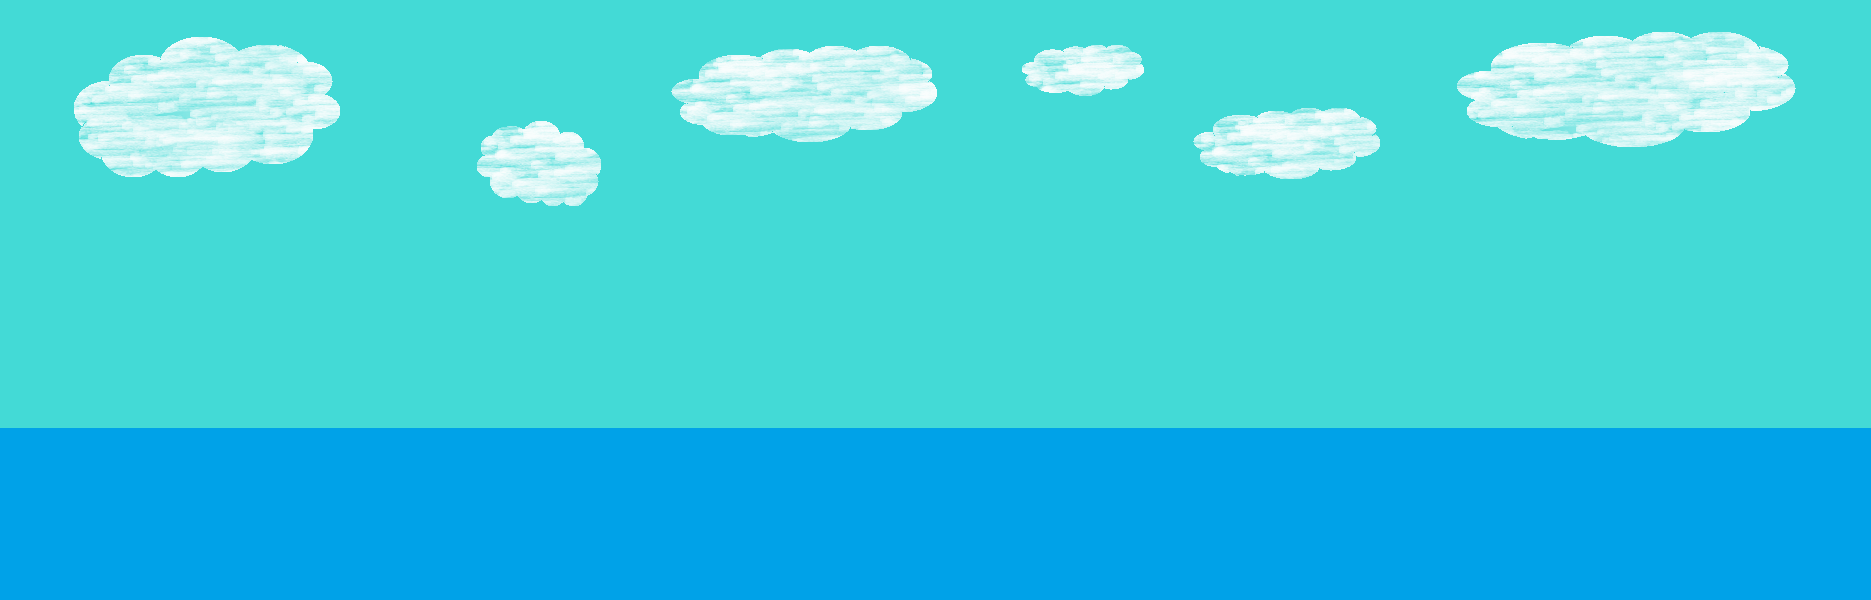
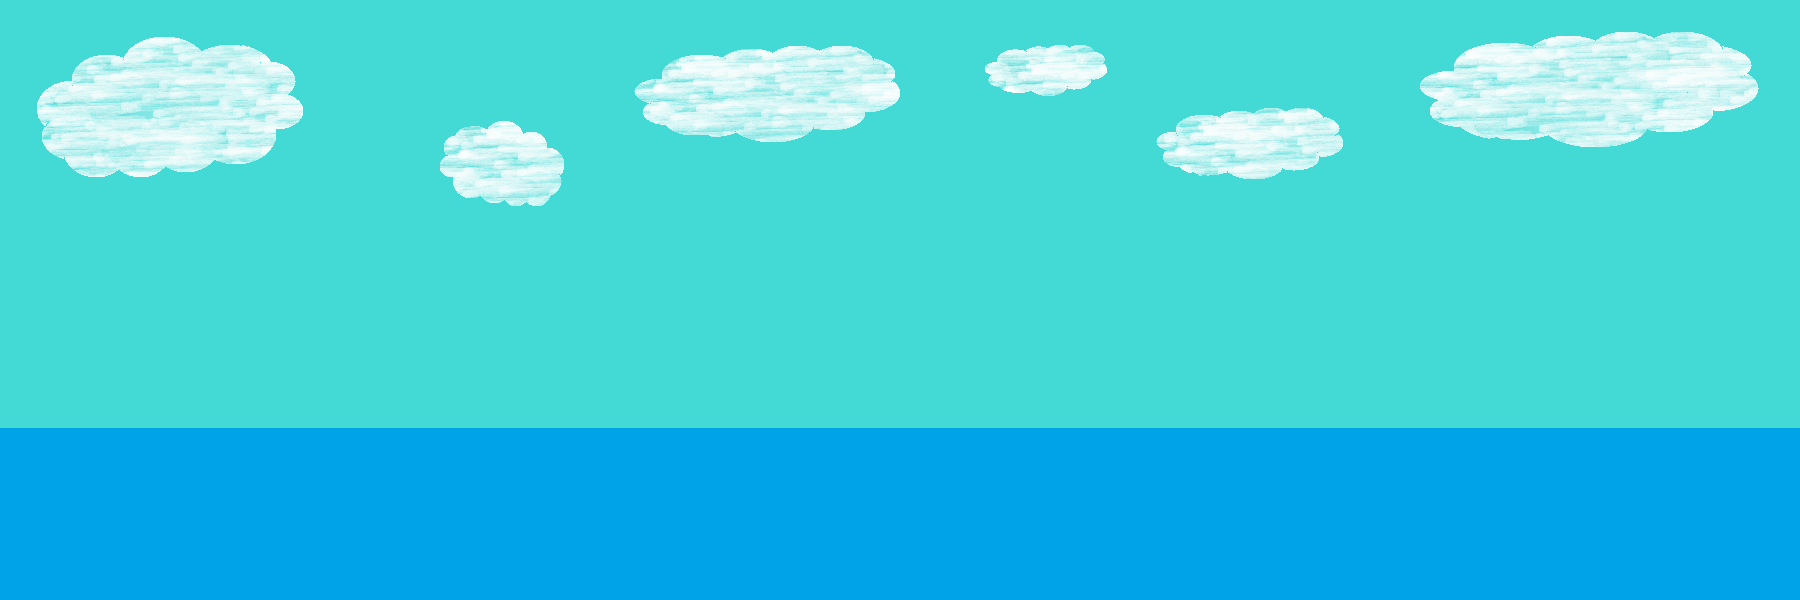
ゲーム画面の背景がスクロールするように変更

diff --git a/src/GameState.java b/src/GameState.java
@@ -8,10 +8,17 @@ public class GameState implements State {
 	 */
 	
 	private GameFiles file = GameFiles.getInstance();
+	private int limitTime = 0;
+	private int time=0;
 
 	@Override
 	//時間経過時の処理
 	public State processTimeElapsed(int msec) {
+		limitTime++;
+		time+=18;
+		if(time==1800) {
+			time=0;
+		}
 		return this;
 	}
 
@@ -26,10 +33,10 @@ public class GameState implements State {
 	@Override
 	//画面描画処理
 	public void paintComponent(Graphics g) {
-		g.drawImage(file.back,-500,0, null);
+		View.scrollBack(g, time);
 		g.setFont(new Font(Font.SANS_SERIF, Font.BOLD, 40));
 		g.setColor(Color.black);
-		g.drawString("ゲーム画面開発中", 350, 100);
+		g.drawString("Time:"+Integer.toString(limitTime),0,100);
 		g.drawString("スペースキーで戻る", 400, 550);
 	}
 

diff --git a/src/View.java b/src/View.java
@@ -8,7 +8,7 @@ import javax.swing.JPanel;
 public class View extends JPanel {
 
     private Model model;
-    private GameFiles file;
+    private static GameFiles file;
 
     public View(Model model) {
         this.model = model;
@@ -52,6 +52,11 @@ public class View extends JPanel {
         Dimension size = getSize();
         g.setColor(Color.BLACK);
         g.fillRect(0, 0, size.width, size.height);
+    }
+    
+    public static void scrollBack(Graphics g,int i) {
+    	g.drawImage(file.back, 0-i,0, null);
+    	g.drawImage(file.back, 1800-i,0, null);
     }
     
     /*

diff --git a/src/RankingState.java b/src/RankingState.java
@@ -26,7 +26,7 @@ public class RankingState implements State {
 		g.drawImage(file.back,-500,0, null);
 		g.setFont(new Font(Font.SANS_SERIF, Font.BOLD, 40));
 		g.setColor(Color.black);
-		g.drawString("Ranking", 350, 100);
+		g.drawString("Ranking", 315, 100);
 		g.drawString("スペースキーで戻る", 400, 550);
 	}
 
